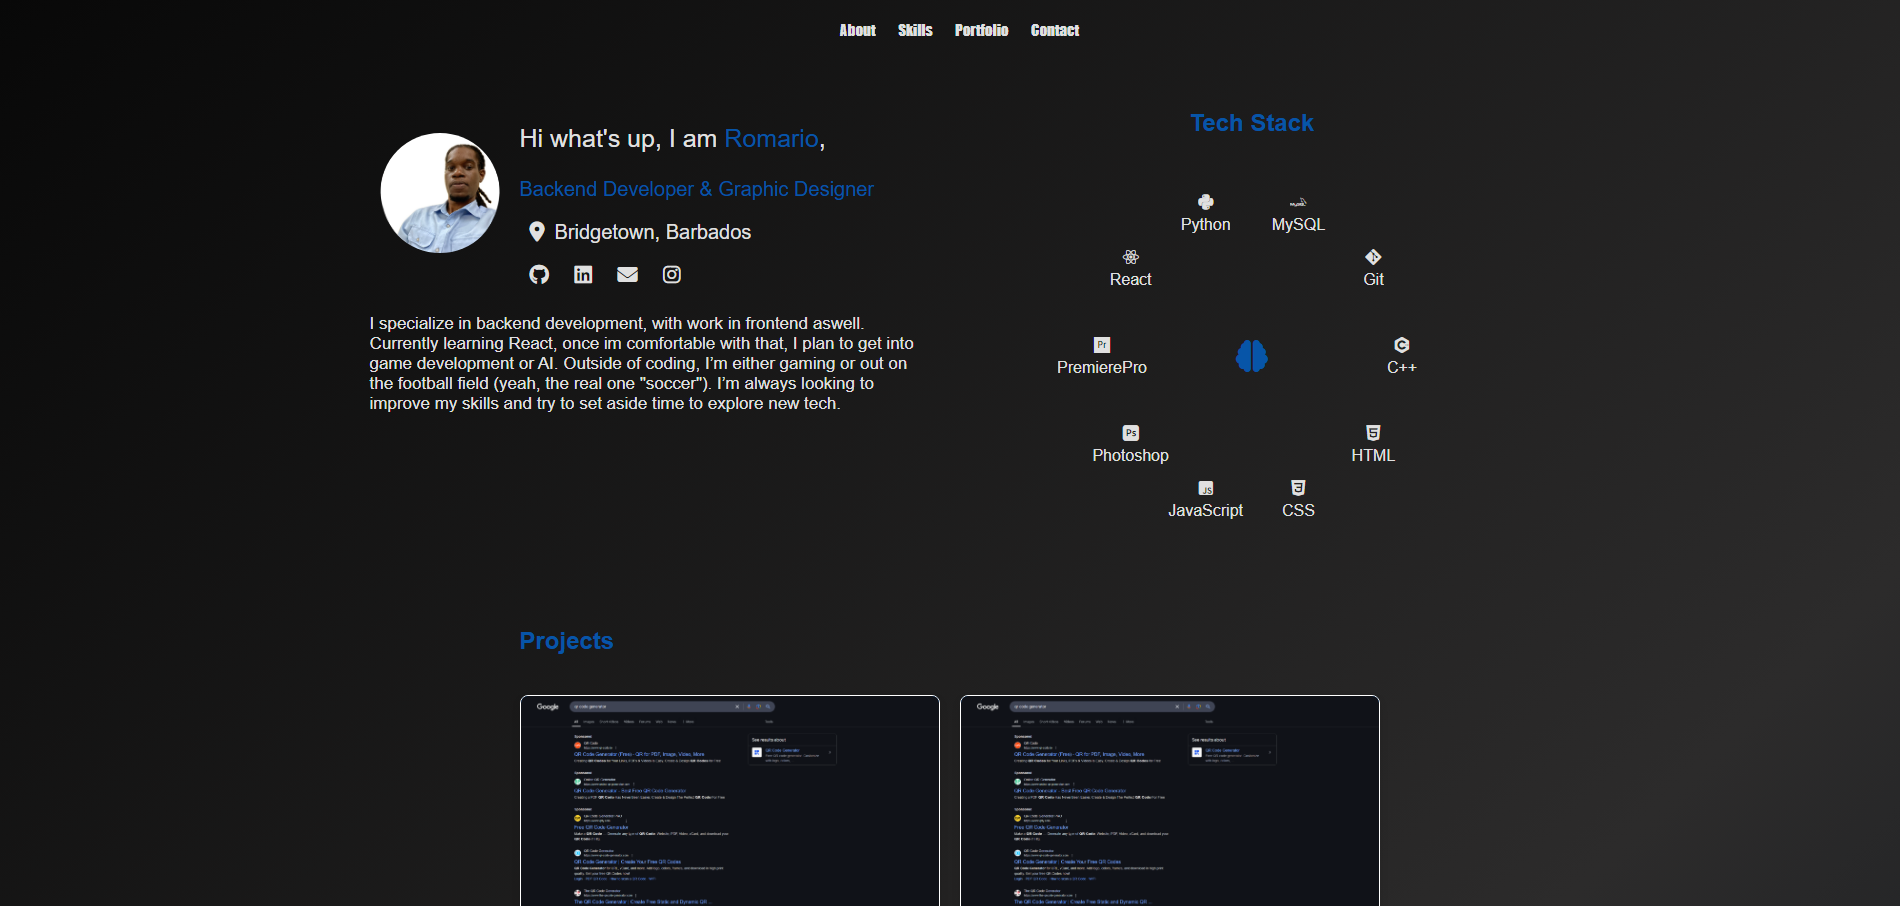
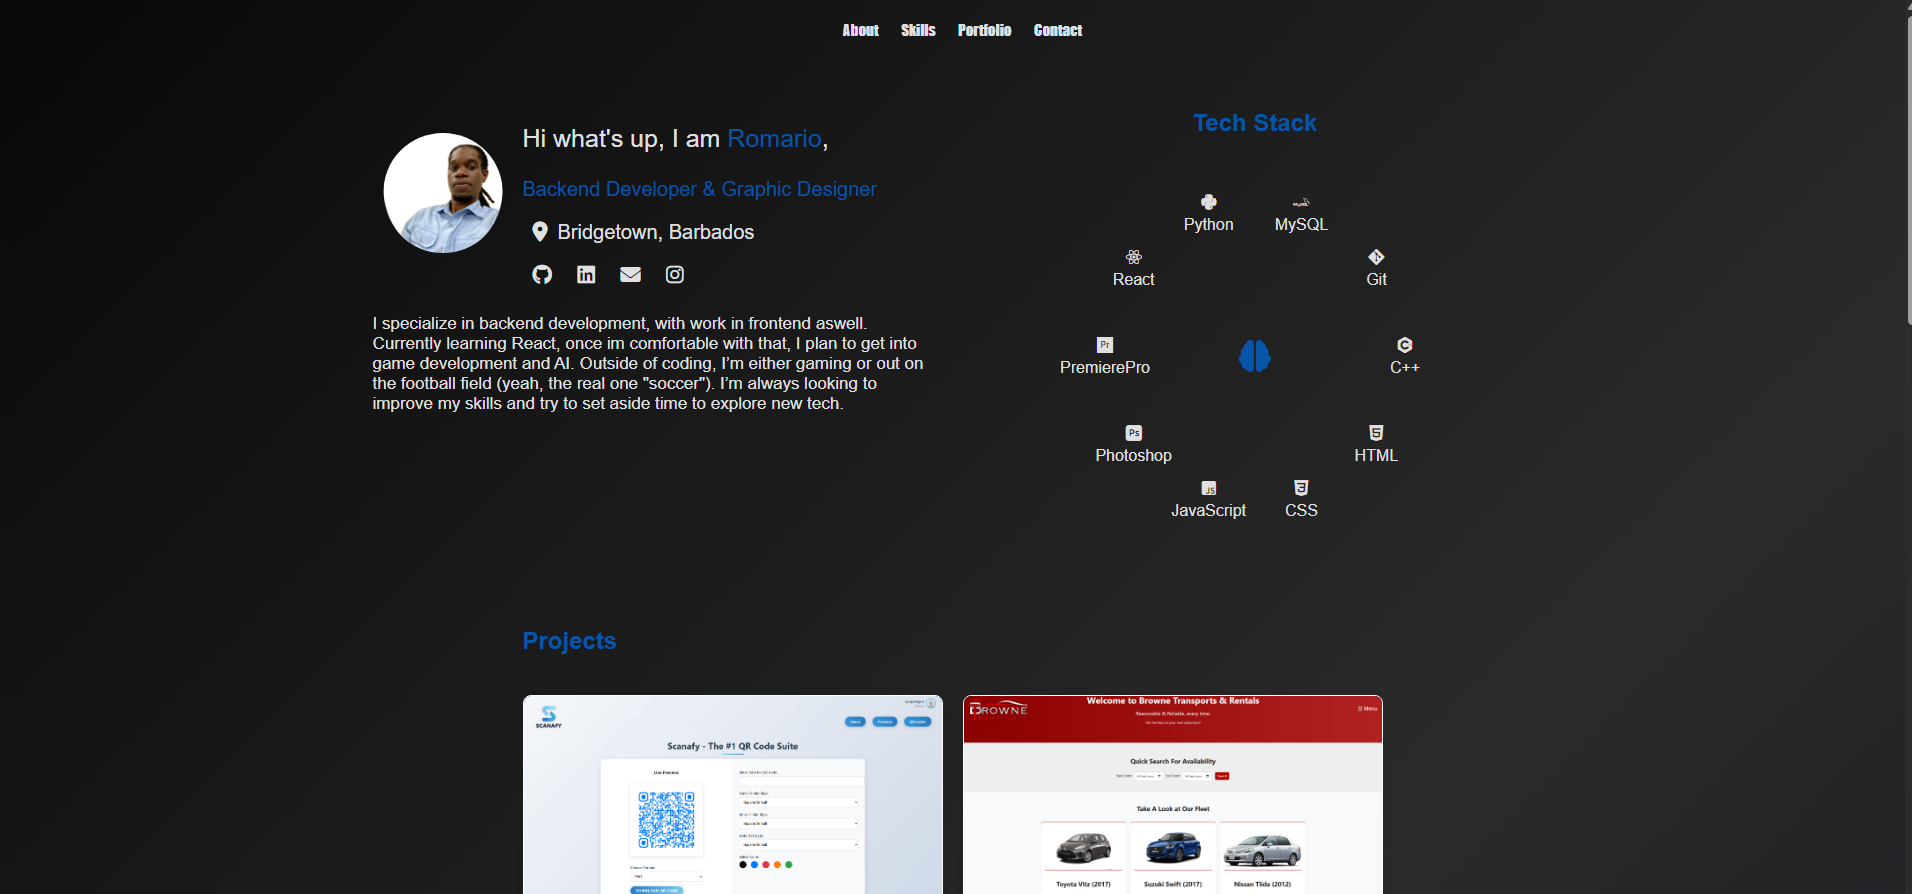
Updated imagages.

diff --git a/index.html b/index.html
@@ -55,7 +55,7 @@
                 <section id = "about">
                     <div class = "about-me">
                         <p>I specialize in backend development, with work in frontend aswell. Currently learning
-                            React, once im comfortable with that, I plan to get into game development or AI.
+                            React, once im comfortable with that, I plan to get into game development and AI.
                             Outside of coding, I’m either gaming or out on the football field (yeah, the real one 
                             "soccer"). I’m always looking to improve my skills and try to set aside time to explore 
                             new tech.
@@ -73,16 +73,16 @@
                             <i class = "fa-solid fa-brain"></i>
                         </div>
 
-                        <div class="skill-node" style="--i:0;"><i class="devicon-cplusplus-plain"></i><span>C++</span></div>
-                        <div class="skill-node" style="--i:1;"><i class="devicon-html5-plain"></i><span>HTML</span></div>
-                        <div class="skill-node" style="--i:2;"><i class="devicon-css3-plain"></i><span>CSS</span></div>
-                        <div class="skill-node" style="--i:3;"><i class="fa-brands fa-square-js"></i><span>JavaScript</span></div>
-                        <div class="skill-node" style="--i:4;"><i class="devicon-photoshop-plain"></i><span>Photoshop</span></div>
-                        <div class="skill-node" style="--i:5;"><i class="devicon-premierepro-plain"></i><span>PremierePro</span></div>
-                        <div class="skill-node" style="--i:6;"><i class="fa-brands fa-react"></i><span>React</span></div>
-                        <div class="skill-node" style="--i:7;"><i class="devicon-python-plain"></i><span>Python</span></div>
-                        <div class="skill-node" style="--i:8;"><i class="devicon-mysql-plain-wordmark"></i><span>MySQL</span></div>
-                        <div class="skill-node" style="--i:9;"><i class="devicon-git-plain"></i><span>Git</span></div>
+                        <div class = "skill-node" style = "--i:0;"><i class ="devicon-cplusplus-plain"></i><span>C++</span></div>
+                        <div class = "skill-node" style = "--i:1;"><i class = "devicon-html5-plain"></i><span>HTML</span></div>
+                        <div class = "skill-node" style = "--i:2;"><i class = "devicon-css3-plain"></i><span>CSS</span></div>
+                        <div class = "skill-node" style = "--i:3;"><i class = "fa-brands fa-square-js"></i><span>JavaScript</span></div>
+                        <div class = "skill-node" style = "--i:4;"><i class = "devicon-photoshop-plain"></i><span>Photoshop</span></div>
+                        <div class = "skill-node" style = "--i:5;"><i class = "devicon-premierepro-plain"></i><span>PremierePro</span></div>
+                        <div class = "skill-node" style = "--i:6;"><i class = "fa-brands fa-react"></i><span>React</span></div>
+                        <div class = "skill-node" style = "--i:7;"><i class = "devicon-python-plain"></i><span>Python</span></div>
+                        <div class = "skill-node" style = "--i:8;"><i class = "devicon-mysql-plain-wordmark"></i><span>MySQL</span></div>
+                        <div class = "skill-node" style = "--i:9;"><i class = "devicon-git-plain"></i><span>Git</span></div>
                     </div>
                 </section>
             </div>
@@ -93,17 +93,17 @@
                 <h2>Projects</h2><br>
 
                 <div class = "project-card">
-            <img src = "coming-soon.png" alt="">
-            <div class = "project-details">
-                <div class = "smallcontainer">
-                    <div class = "left-side">
-                        <h3>Forex Tools and Tips</h3>
-                    </div>
-                    <div class = "right-side">
-                        <a href ="#" class = "code-link" target = "_blank">
-                            <i class="fas fa-code"></i>
-                        </a>
-                    </div>
+                <img src = "coming-soon.png" alt="">
+                <div class = "project-details">
+                    <div class = "smallcontainer">
+                        <div class = "left-side">
+                            <h3>Forex Tools and Tips</h3>
+                        </div>
+                        <div class = "right-side">
+                            <a href ="#" class = "code-link" target = "_blank">
+                                <i class="fas fa-code"></i>
+                            </a>
+                        </div>
                 </div>
                 <p>Coming Soon!</p>
                 <div class = "project-stack-row">
@@ -168,7 +168,7 @@
 
                 <div class="project-card">
                     <img src = "webdev/qrcode/qr.png" alt="">
-                    <div class="project-details">
+                    <div class = "project-details">
                         <div class = "smallcontainer">
                             <div class = "left-side">
                                 <h3>Scanafy - QR Code Suite</h3>
@@ -187,8 +187,8 @@
                                         <span>HTML</span>
                                         <span>CSS</span>
                                         <span>JavaScript</span>
-                                        <span>MySQL</span>
-                                        <span>Python (Django)</span>
+                                        <span>PostgreSQL</span>
+                                        <span>Django</span>
                                     </div>
                                     <div class = "stack-right-side">
                                         <a href = "https://scanafy.onrender.com/" class = "status-link" target = "_blank">
